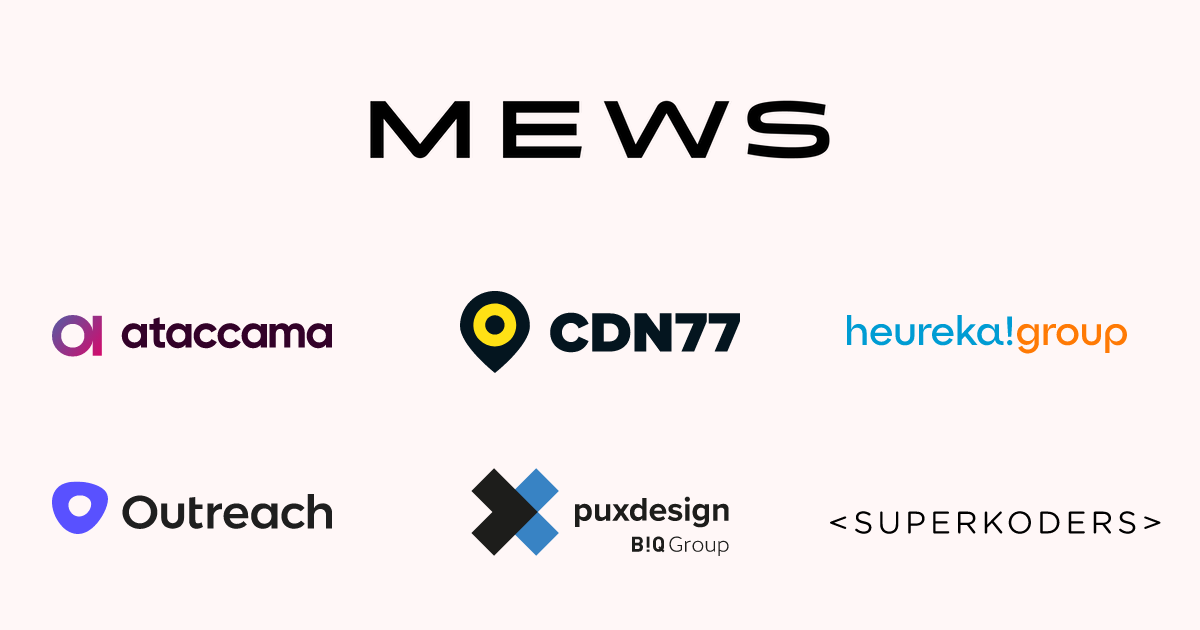
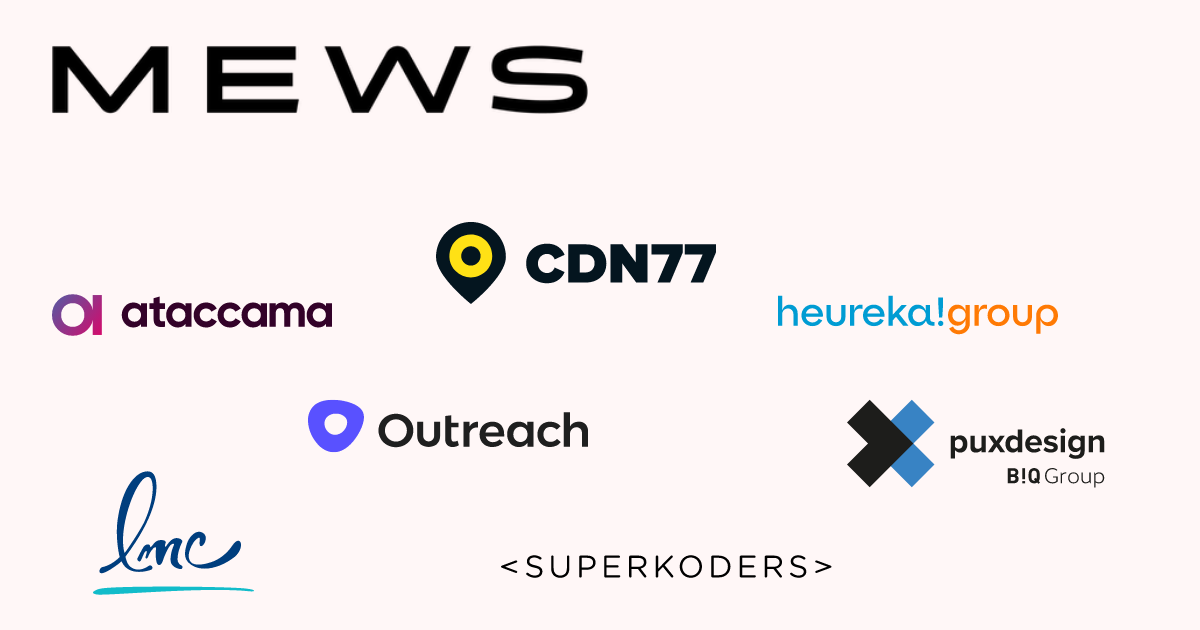
added LMC partner

diff --git a/data/cz/blog/frontkon-2023.md b/data/cz/blog/frontkon-2023.md
@@ -31,7 +31,7 @@ Připravujeme pro vás dvě přednáškové místnosti, jednu partnerskou „sta
 
 ![](../img/illust/blog-frontkon-partners.png)
 
-Partnery konference jsou [Mews](https://www.mews.com/), [Attaccama](https://www.ataccama.com/), [CDN77](https://www.cdn77.com/), [Heureka Group](https://heureka.group/), [Outreach](https://www.outreach.io/), [PUXdesign](https://www.puxdesign.cz/) a [SUPERKODERS](https://superkoders.com/).
+Partnery konference jsou [Mews](https://www.mews.com/), [Attaccama](https://www.ataccama.com/), [CDN77](https://www.cdn77.com/), [Heureka Group](https://heureka.group/), [LMC](https://www.lmc.eu/), [Outreach](https://www.outreach.io/), [PUXdesign](https://www.puxdesign.cz/) a [SUPERKODERS](https://superkoders.com/).
 
 Těšíme se na vás!
 
